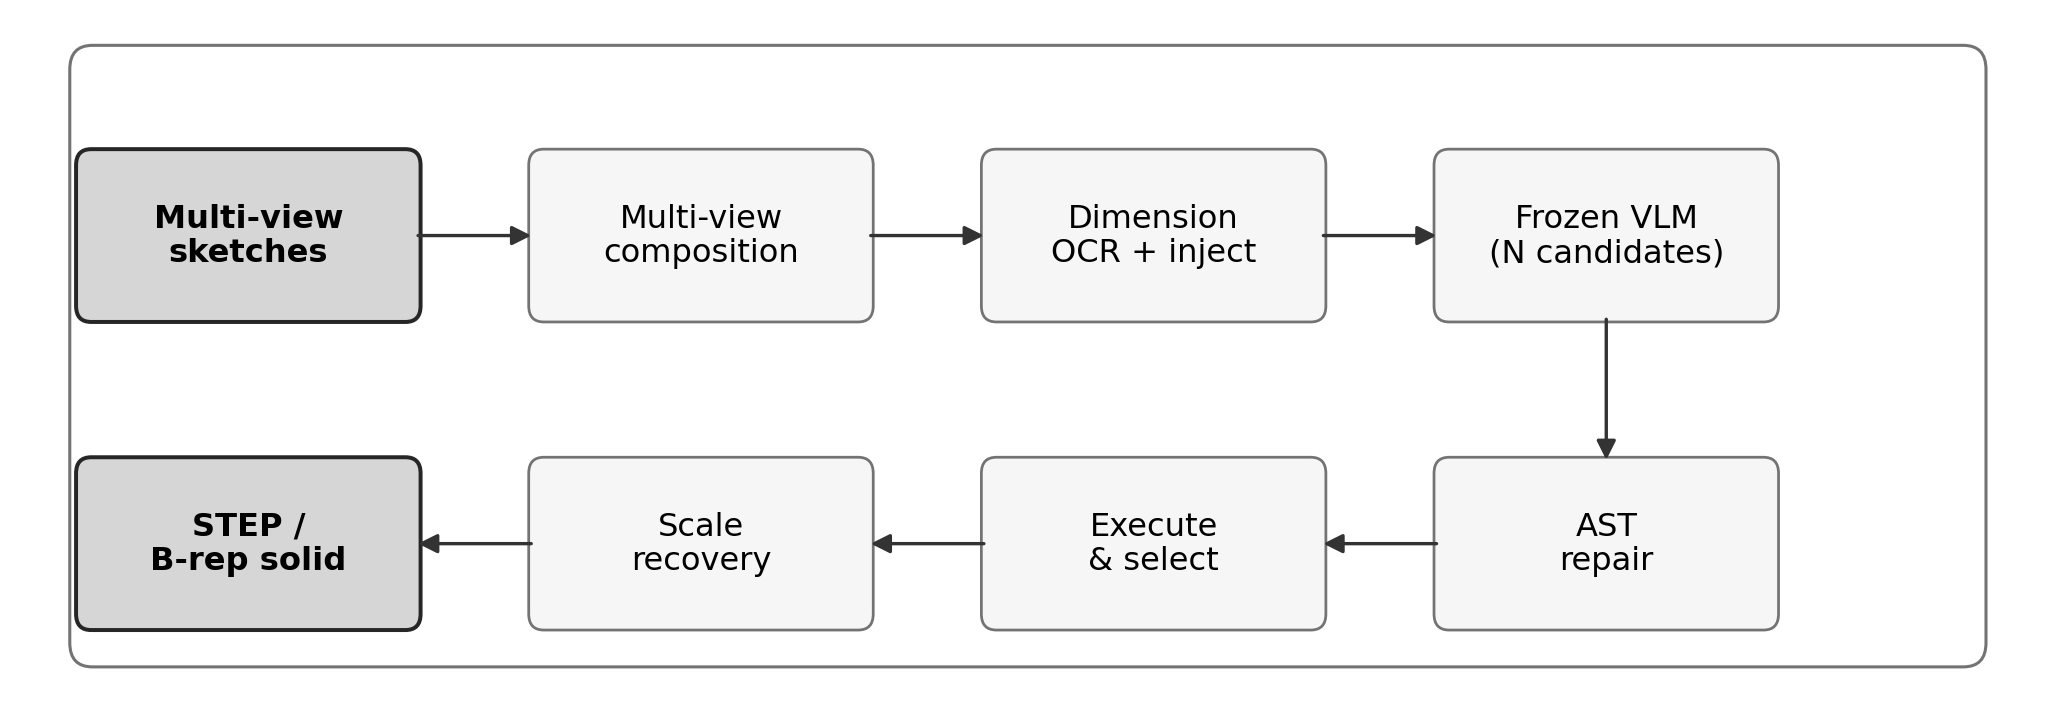
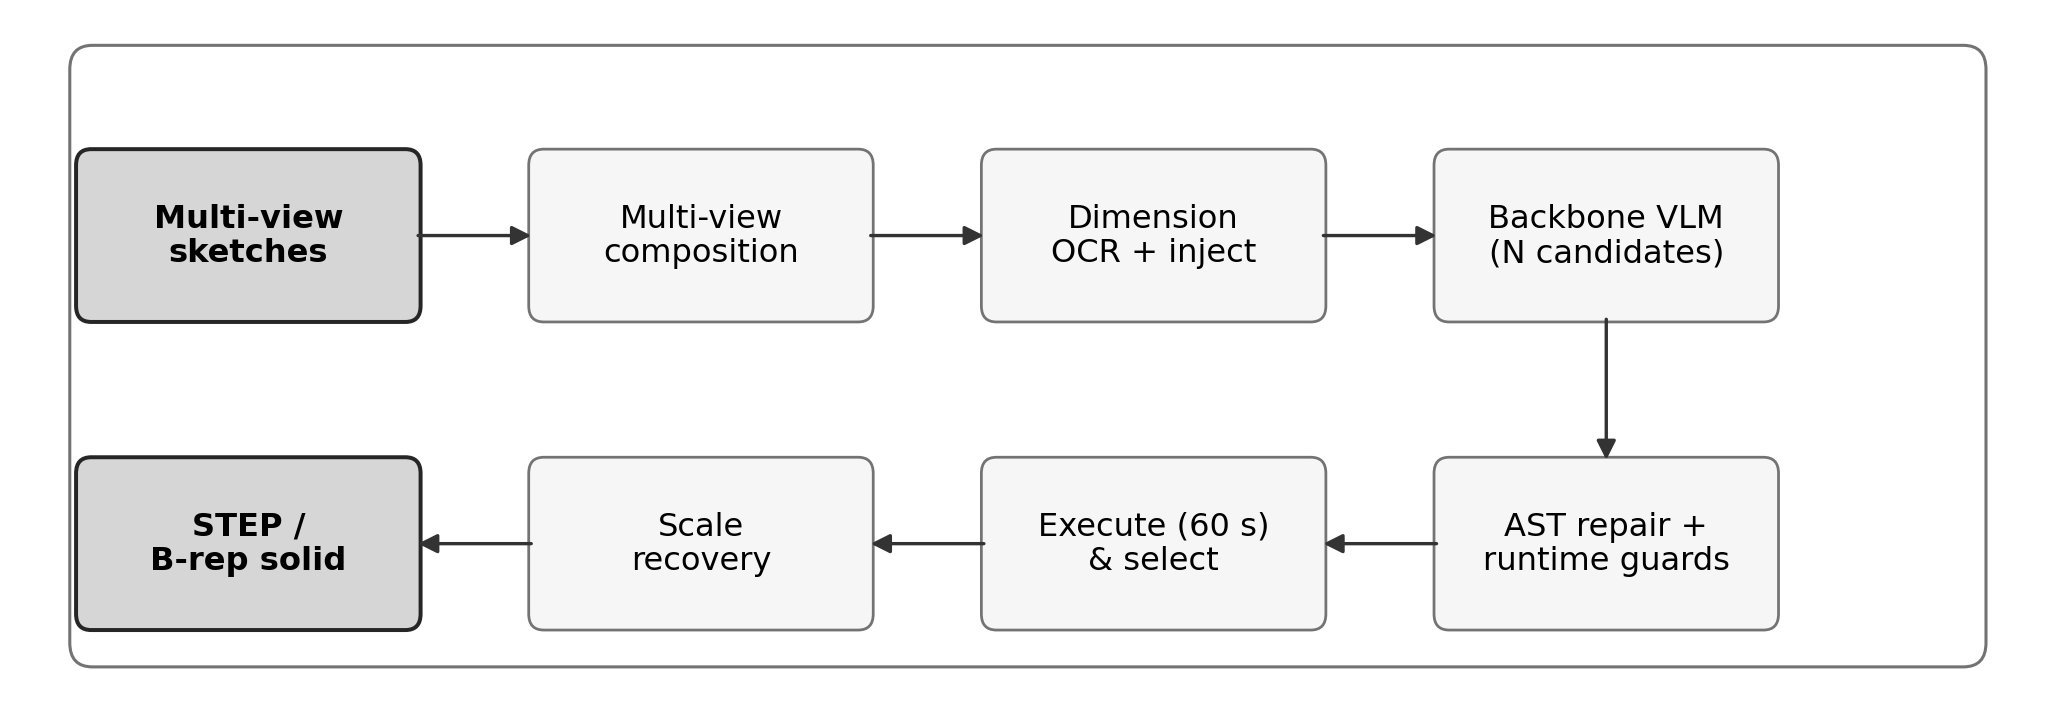
Pipeline schematic shows runtime guards and 60 s timeout; record Figure 1 provenance

Changed region(s): [[0.7163, 0.7097, 0.8409, 0.8022], [0.7163, 0.2777, 0.8409, 0.3394], [0.4983, 0.7097, 0.6229, 0.7714]]

diff --git a/figures/gen_figs.py b/figures/gen_figs.py
@@ -9,7 +9,9 @@ import os
 # Figures are written next to this script (the repository figures/ folder).
 OUT = os.path.dirname(os.path.abspath(__file__))
 
-# ---------------------------------------------------------------- Figure 1
+# ---------------------------------------------------------------- pipeline schematic
+# Simplified schematic of the shell (fig_pipeline.png). Figure 1 of the paper is the
+# detailed diagram figures/fig_pipeline_v2.png, which this script does not generate.
 fig, ax = plt.subplots(figsize=(9.2, 3.1))
 ax.set_xlim(0, 16)
 ax.set_ylim(0, 5)
@@ -22,8 +24,8 @@ centers = {
 }
 labels = {
     "I": "Multi-view\nsketches", "C": "Multi-view\ncomposition",
-    "O": "Dimension\nOCR + inject", "V": "Frozen VLM\n(N candidates)",
-    "R": "AST\nrepair", "E": "Execute\n& select",
+    "O": "Dimension\nOCR + inject", "V": "Backbone VLM\n(N candidates)",
+    "R": "AST repair +\nruntime guards", "E": "Execute (60 s)\n& select",
     "S": "Scale\nrecovery", "Out": "STEP /\nB-rep solid",
 }
 io_nodes = {"I", "Out"}

diff --git a/results/PAPER_TABLES.md b/results/PAPER_TABLES.md
@@ -137,6 +137,7 @@ five spurious tokens (2 or 4 mm) accepted by the naive reader on four undimensio
 
 | Figure | File | Script |
 |---|---|---|
+| 1 | `figures/fig_pipeline_v2.png` | prepared manually, not script-generated; `figures/gen_figs.py` produces only the simplified schematic `fig_pipeline.png` |
 | 5 | `figures/prediction_gallery_replay.png` | `tools/make_gallery.py --condition multiview_n3 --seed 0` |
 | 6 | `figures/fig_validity_fidelity_replay.png` | `tools/make_fig_validity_fidelity.py` |
 | Graphical abstract | `figures/graphical_abstract.png` | `tools/make_graphical_abstract.py` |
